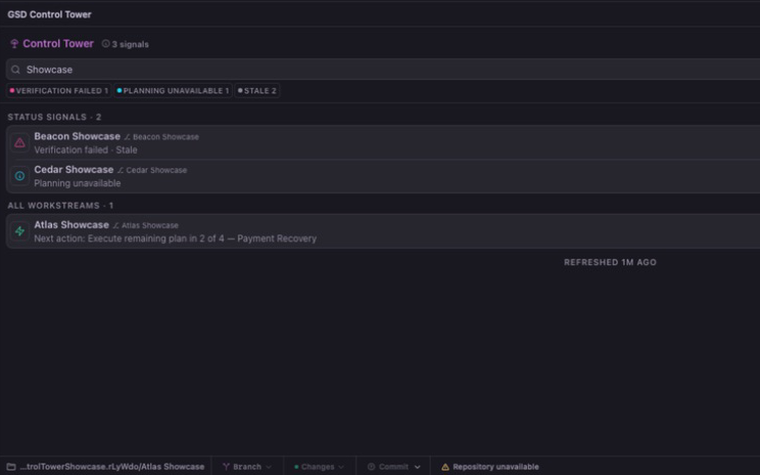
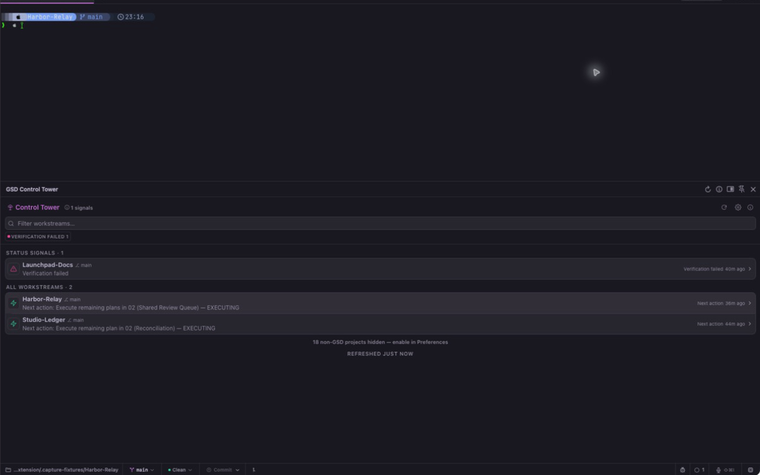
Use realistic native Muxy captures

diff --git a/README.md b/README.md
@@ -6,7 +6,7 @@ GSD Control Tower brings [GSD](https://github.com/open-gsd/gsd-core) project pro
 
 Planning status comes from each project's `.planning/` files. Agent status is available for sessions running inside Muxy.
 
-![GSD Control Tower showing the active Atlas Showcase phase pipeline and recorded next action](./assets/readme/active-project.png)
+![GSD Control Tower showing Harbor Relay's seven-phase roadmap and active review queue](./assets/readme/active-project.png)
 
 ## What it tells you
 
@@ -20,7 +20,7 @@ Planning status comes from each project's `.planning/` files. Agent status is av
 
 The **Status signals** list contains workstreams with one or more explicit signals. Rows sort by project and worktree name, and every applicable signal remains visible.
 
-![GSD Control Tower showing explicit status signals across sanitized showcase projects](./assets/readme/status-signals.png)
+![GSD Control Tower showing a failed verification alongside two active project workstreams](./assets/readme/status-signals.png)
 
 | State | Meaning |
 | --- | --- |
